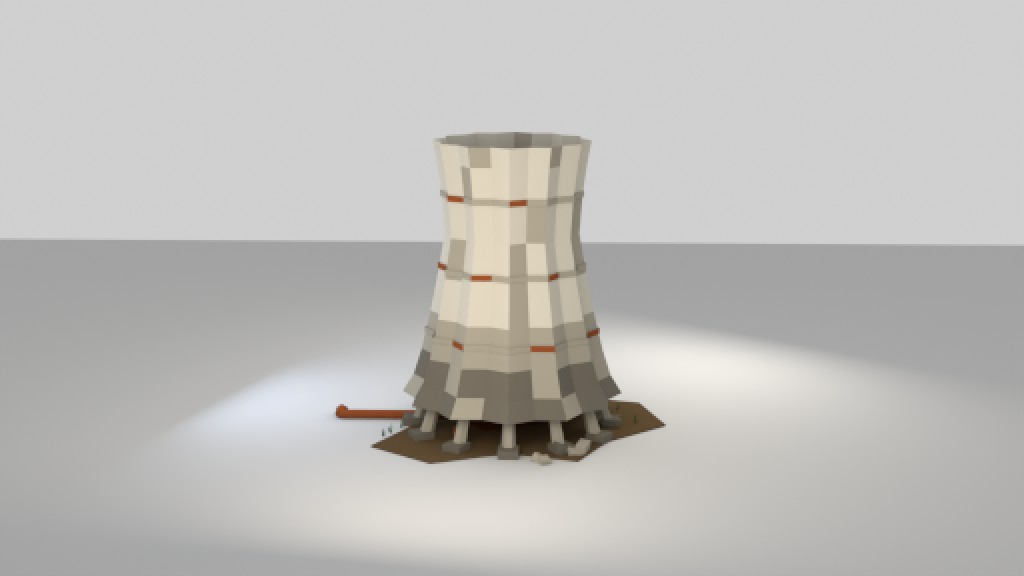
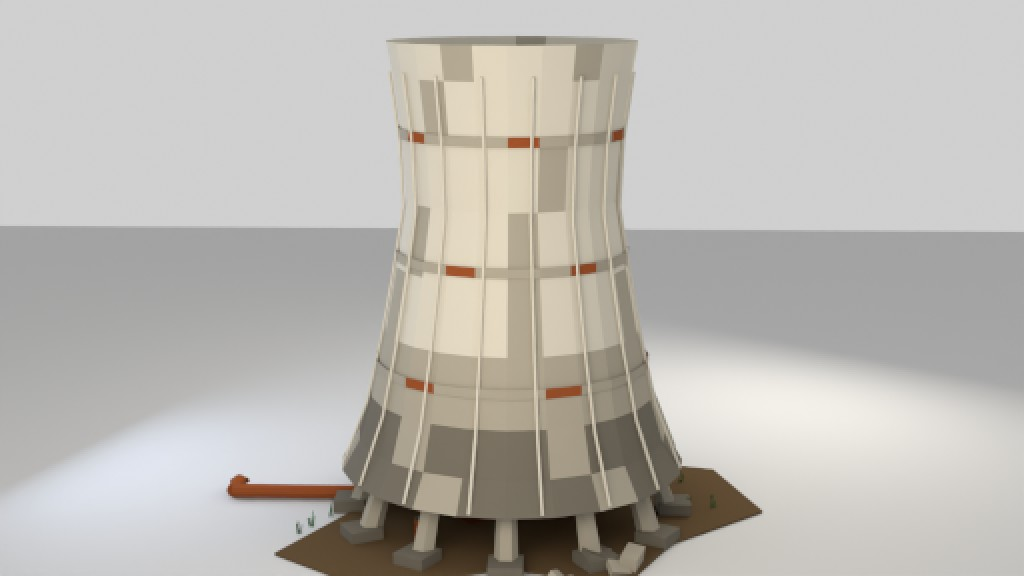
fix(chemplant): 实机像素化口径两处修正——冷却塔改外凸肋条、围栏压暗锈
实机出图（r14）暴露的两个"Blender 预览看不出、进三档色带才现形"的问题：

- 冷却塔：壳体原用"隔扇区半径 ±5.5%"做周向棱槽 → 相邻扇区法线差几度，而漫反射只有三档 ⇒
  互相翻档，读成棋盘格；把幅度压到 ±1.5% 更糟（暗档读成洞 = 镂空壳）。改为壳体半径光滑 +
  外凸细肋条 ×16（沿半径剖面折线细管，肋条单一面朝向只落一档色）。教训：竖直曲面上的
  周向凹槽在色带管线里不安全，平面凸起（厂房压型墙的外凸棱）才安全。
- 围栏横杆/竖条 Kit_Rust → Kit_RustDark：实机里亮锈橙在长杆上太抢眼，成排围栏把场地染橙。

预览图（冷却塔/围栏/场地）随模型重出；kit README 增「实机口径」段记录这两条自查项。

diff --git a/tools/blender/scene/chemplant/chemplant_kit.py b/tools/blender/scene/chemplant/chemplant_kit.py
@@ -1063,7 +1063,12 @@ def build_cooling_tower(acc, dress=True):
         return rt + (rtop - rt) * (u ** 1.6)
 
     rs = [_rr(z) for z in zs]
-    roff = [1.055 if i % 2 == 0 else 0.945 for i in range(S)]
+    # 【实机口径修正 2026-09-29，两轮实测】壳体**不做周向棱槽**：在近似竖直的曲面上，
+    # 任何幅度的交替半径都会让相邻扇区的法线差几度，而像素路径的漫反射只有三档 ⇒
+    # 相邻扇区互相翻档，读成"棋盘格"（±5.5%）乃至"镂空壳"（±1.5%）；Blender 的连续渲染看不出这个。
+    # 改法照厂房压型墙的成功做法：壳体光滑，装饰改成**外凸细肋条**（见下方 ribs），
+    # 肋条自身是单一面朝向、只落一档色，不参与翻档。
+    roff = None
 
     def matf(band, sector):
         if zs[band] < 6.0:
@@ -1080,11 +1085,24 @@ def build_cooling_tower(acc, dress=True):
         loft(acc, [ring_pts(0, 0, rb, zb - 0.22, S, roff=roff),
                    ring_pts(0, 0, rb, zb + 0.22, S, roff=roff)],
              lambda b, s: 'Kit_ConcreteMid' if (s * 3 + int(zb)) % 4 else 'Kit_Rust')
+    # 外凸竖肋 ×16（沿半径剖面折线，5 棱细管；代替会被色带翻档的周向棱槽）
+    for k in range(16):
+        a = 2.0 * math.pi * (k + 0.5) / 16.0
+        ca, sa2 = math.cos(a), math.sin(a)
+        zz = 2.70
+        prev = None
+        while zz <= h - 0.30:
+            rr = _rr(zz) + 0.085
+            pt = (ca * rr, sa2 * rr, zz)
+            if prev is not None:
+                cyl(acc, prev, pt, 0.075, 0.075, 5, 'Kit_ConcreteLight')
+            prev = pt
+            zz += 3.0
     # 顶口残缺两扇区
     top = list(rings[-1])
     for i in (9, 10):
         a = 2.0 * math.pi * i / S
-        top[i] = (math.cos(a) * rs[-1], math.sin(a) * rs[-1], h - 1.5)
+        top[i] = (math.cos(a) * rs[-1], math.sin(a) * rs[-1], h - 0.85)
     rings[-1] = top
     fan(acc, (0, 0, 2.40), ring_pts(0, 0, r0 * 0.9, 2.40, S, roff=roff), 'Kit_ConcreteDark')
     # 底部 12 条斜腿（架空感）+ 地面环形水池
@@ -1286,12 +1304,15 @@ def build_fence(acc, toppled=False):
         sbox(acc, (px, 0.0, 0.20), (0.5, 0.5, 0.40), 'Kit_ConcreteMid')
         lean = -0.10 if k == 2 else 0.0
         sbox(acc, (px, 0.0, 1.30), (0.10, 0.10, 2.20), 'Kit_Rust', rot=(lean, 0.0, 0.0))
+    # 【实机口径修正 2026-09-29】横杆/竖条由 Rust 压到 RustDark：实机里长杆上的亮锈橙太抢眼
+    # （连成排的围栏把整片场地染成橙色），暗锈更贴"多年失修"。
     for z in (0.55, 2.20):
-        sbox(acc, (0.0, 0.0, z), (L, 0.07, 0.07), 'Kit_Rust')
+        sbox(acc, (0.0, 0.0, z), (L, 0.07, 0.07), 'Kit_RustDark')
     for k in range(n):
         px = -L * .5 + L * (k + 0.5) / n
         sag = 0.12 if 1.6 < px < 2.2 else 0.0
-        sbox(acc, (px, 0.0, 1.38 - sag), (0.05, 0.05, 1.7), 'Kit_Rust', rot=(0.0, 0.06 if sag else 0.0, 0.0))
+        sbox(acc, (px, 0.0, 1.38 - sag), (0.05, 0.05, 1.7), 'Kit_RustDark',
+             rot=(0.0, 0.06 if sag else 0.0, 0.0))
     weeds(acc, -2.0, 0.4, 2, 172, spread=1.0)
     weeds(acc, 2.2, -0.4, 2, 173, spread=1.0)
 

diff --git a/tools/blender/scene/chemplant/README.md b/tools/blender/scene/chemplant/README.md
@@ -101,6 +101,19 @@
 - **裂缝 / 积水 / 泥地**：`crack()` 折线薄片（`Kit_ConcreteDark`）、`patch_poly()` 贴地不规则薄片
   （`Kit_WetSand` 积水 / `Kit_SandDark` 泥地 / `Kit_RustDark` 锈水）。
 
+## 实机口径（像素化路径实测修正，2026-09-29）
+
+实机图（`docs/images/pixelart-path/r14/`）出过两处"Blender 预览看不出、进管线才暴露"的问题，
+已修在本脚本里，改其它件时照这两条自查：
+
+1. **曲面上不做周向凹槽**：冷却塔原用"隔扇区半径 ±5.5%"做棱槽 → 实机三档色带下相邻扇区互相翻档，
+   读成棋盘格（压到 ±1.5% 后读成镂空壳）。现改为**壳体光滑 + 外凸细肋条 ×16**（肋条单一面朝向、
+   只落一档色）。平面凸起（厂房压型墙的外凸竖棱、罐体的箍带）不受影响。
+2. **亮锈橙别铺长杆**：围栏横杆/竖条由 `Kit_Rust` 改 `Kit_RustDark`——成排围栏用亮橙会把整片场地染橙。
+
+另：材质的 `roughness` 只服务 Blender 预览（实机逐物体只吃 albedo），预览用哑光 + 像素块边长 2，
+**不做全图色阶量化**（会把 `#8C4A28` 推成饱和红）。
+
 ## 坐标与朝向（Unity 侧必读）
 
 - Blender 内：+Z 上、X 东、Y 北；FBX 导出 `axis_forward='-Z', axis_up='Y'`（`ST.export_fbx`）。
